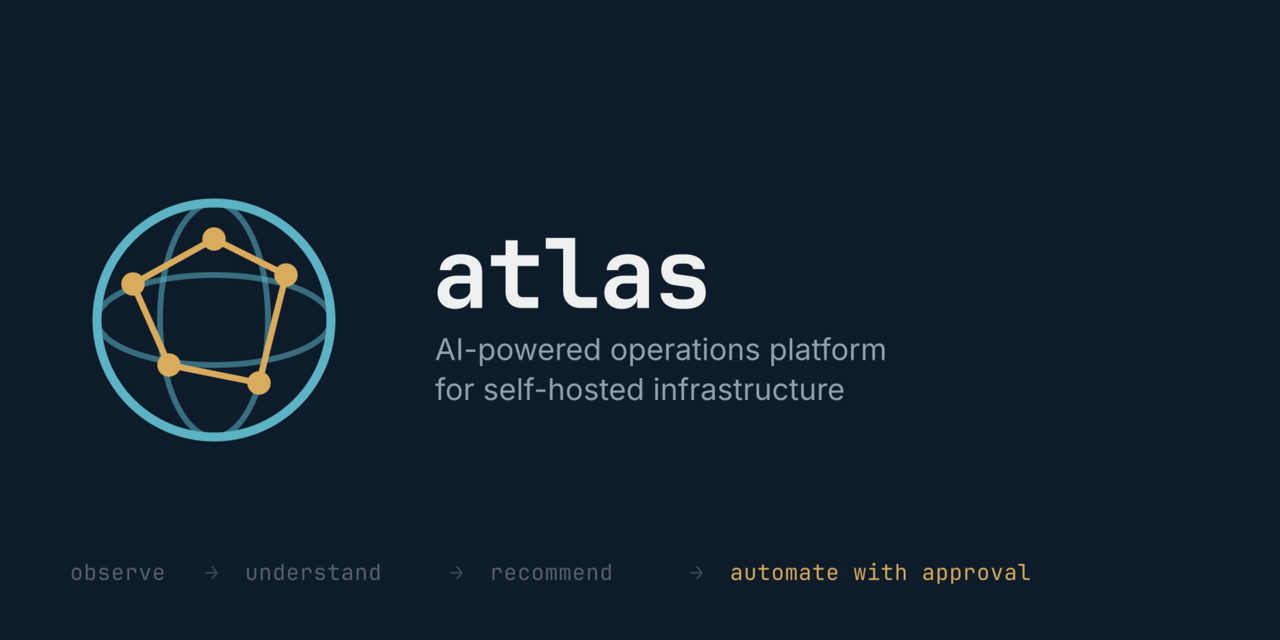
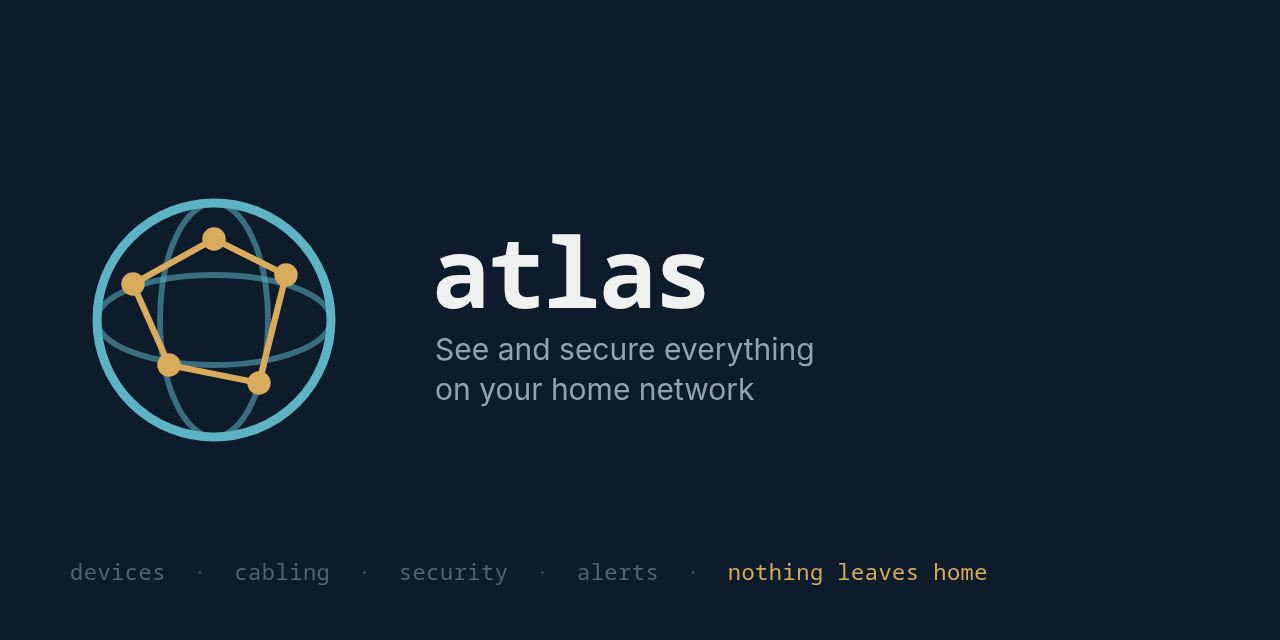
Describe atlas as a home-network watchdog (#53)
The banner, docs home page, package, site and CLI descriptions still pitched
an AI operations platform that would eventually automate. atlas is now a
self-hosted watchdog: device inventory, cabling map, security checks and
alerts, AI optional. The banner gets font fallbacks so it renders the same
without JetBrains Mono/Inter installed.

diff --git a/atlas/cli/main.py b/atlas/cli/main.py
@@ -53,7 +53,7 @@ from atlas import __version__
 
 app = typer.Typer(
     name="atlas",
-    help="AI-powered operations platform for self-hosted infrastructure."
+    help="Self-hosted watchdog for your home network: devices, cabling, security and alerts."
 )
 
 console = Console()

diff --git a/docs/index.md b/docs/index.md
@@ -1,30 +1,54 @@
 <p align="center">
-  <img src="images/social-preview.svg" alt="Atlas - AI-powered operations platform for self-hosted infrastructure" style="max-width: 100%;">
+  <img src="images/social-preview.svg" alt="Atlas - see and secure everything on your home network" style="max-width: 100%;">
 </p>
 
 # Atlas
 
-**AI-powered operations platform for self-hosted infrastructure.**
+**Know every device on your home network, what changed, and what needs you — without sending anything to the cloud.**
 
-Atlas is an extensible infrastructure intelligence platform designed to discover, understand, and eventually automate self-hosted environments — homelabs, private clouds, and self-managed infrastructure.
+Atlas is a self-hosted watchdog for homelabs. It finds every machine on your LAN without installing anything on
+them, maps how they are cabled together down to the switch port, watches your Docker containers and Proxmox
+guests, checks your network's security, and alerts you when something new shows up or something important goes
+quiet. An AI model is optional: run one locally with Ollama and ask questions in plain language.
 
-Atlas is guided by one principle:
+!!! quote "Watch everything. Change nothing without asking."
+    Atlas observes and explains. Restarting a container or a VM is only ever suggested, and every action asks you
+    first. There is no autonomous mode and no bypass flag.
 
-!!! quote "Observe first. Understand second. Recommend third. Automate with approval."
-    Atlas should never blindly modify infrastructure. It gathers information, builds context, explains its findings, and requires approval before anything destructive.
+## What Atlas does
 
-## What Atlas does today
+- **Device inventory**: every device on the LAN, found from ARP, SNMP and LLDP. New ones wait for you to name them;
+  important ones alert you when they drop off.
+- **Cabling map**: a wired view from the internet down to every switch port — link speeds, PoE, spanning tree,
+  link bundles, VLANs and your patch panels — read over SNMP and (optionally) your UniFi console.
+- **Security watch**: new open ports on LAN devices, a rogue DHCP server, ARP spoofing of your gateway, expiring
+  TLS certificates, what reaches the internet and what the internet can reach, and whether your torrent client is
+  still behind its VPN.
+- **Health**: cable errors, temperatures near their limit, full disks, crashed or restart-looping containers.
+- **Alerts where you already look**: ntfy, Discord, Slack, email, any webhook, Signal, or 100+ services through
+  Apprise. One alert when a problem starts, one when it clears.
+- **Containers and VMs**: Docker, Proxmox and libvirt — what's running, what's unhealthy, and restart, stop or
+  resize when you approve it.
+- **Chat with your homelab** (optional): answers come from live state, logs and your own notes, using Ollama on
+  your own hardware or Claude.
 
-- **Discovers** your hardware, OS, storage, network, Docker containers, Compose stacks, and Proxmox cluster (nodes, VMs, and containers)
-- **Remembers** what it finds — every discovery run and event is persisted to a local knowledge store, including host and per-container resource-usage history you can trend over time (`atlas trends`)
-- **Analyzes** that knowledge with an AI provider (Anthropic Claude or a self-hosted Ollama model) and returns a plain-language summary plus concrete recommendations — either as a single-shot report (`atlas analyze`) or an interactive conversation (`atlas chat`) that can call back into live state mid-request
-- **Monitors** an existing Prometheus for host and per-container metrics, flags anything over a configurable threshold, and reports what changed since the last scan
-- **Acts**, when you say so — restart, stop, or resize a Docker container; restart a Proxmox guest — always showing current state and asking for confirmation first, including for a multi-step plan when a fix genuinely needs an ordered sequence of steps
-- **Extends** via a plugin architecture and an internal event bus, so new capabilities don't require rewriting the core
-
-See [Architecture](architecture/index.md) for how these pieces fit together, or jump straight to [Getting Started](getting-started/index.md).
+Start with [Getting Started](getting-started/index.md), or see [Architecture](architecture/index.md) for how the
+pieces fit together.
 
 ## See it in action
+
+<p align="center">
+  <img src="images/screenshots/cabling-map.png" alt="Cabling map: internet, gateway, a 28-port switch and the hosts on each port" style="max-width: 100%; width: 900px;"><br>
+  <img src="images/screenshots/cabling-ports.png" alt="Switch front panels with a standby backup cable and a PoE-powered access point" style="max-width: 100%; width: 900px;"><br>
+  <sub>The Cabling page, shown with example data.</sub>
+</p>
+
+<p align="center">
+  <img src="images/screenshots/devices.png" alt="Devices page" style="max-width: 100%; width: 900px;"><br>
+  <sub>The Devices page, shown with example data.</sub>
+</p>
+
+### From the terminal
 
 Representative output, not a literal capture — field names and formatting match real commands; hostnames, containers, and figures are illustrative.
 

diff --git a/CHANGELOG.md b/CHANGELOG.md
@@ -5,6 +5,10 @@ Docker image is published as `ghcr.io/cyb3rron1n/atlas:<version>` for every rele
 
 ## Unreleased
 
+### Changed
+- New description everywhere: atlas is a self-hosted watchdog for your home network (devices, cabling, security,
+  alerts), not an "AI operations platform". New banner, docs home page and package description to match.
+
 ### Fixed
 - The one-line installer (`curl ... | bash`) stopped silently after starting the containers, without printing
   the address and setup code: `docker compose` read the rest of the piped script as its input. Atlas itself was
